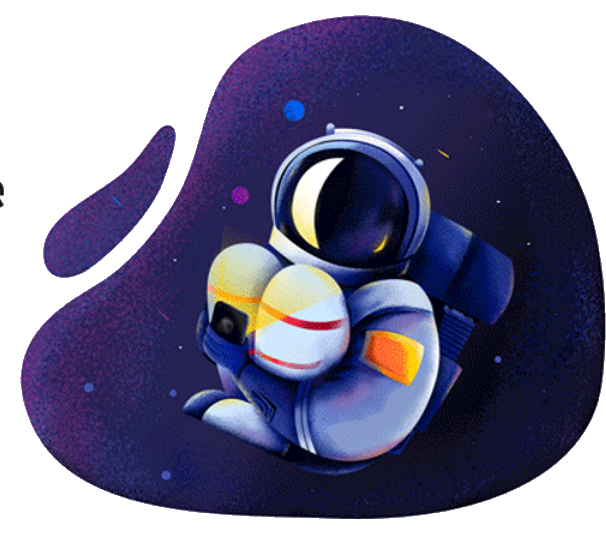
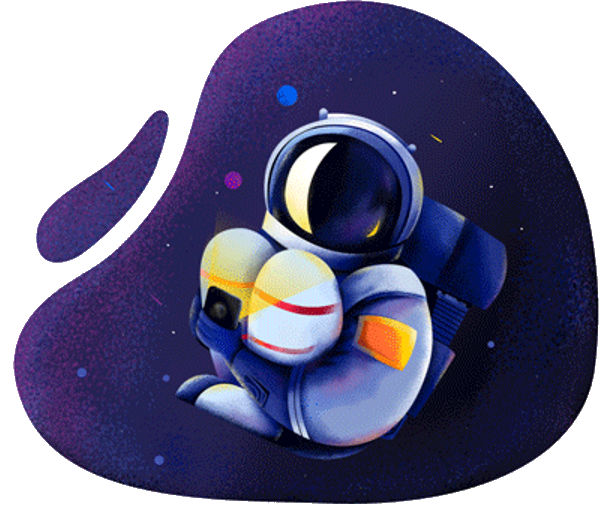
improvment

diff --git a/css/main.css b/css/main.css
@@ -5,7 +5,7 @@ body {font-family: system-ui, 'Gill Sans', 'Gill Sans MT', Calibri, 'Trebuchet M
    .container {
    display: inline-block;
    width: 1000px;
-   margin: 0 calc(50% - 500px);
+   margin: 0 calc(50% - 500px) 60px;
   }
   
   /* header */
@@ -39,6 +39,7 @@ body {font-family: system-ui, 'Gill Sans', 'Gill Sans MT', Calibri, 'Trebuchet M
 .left-column {
   width: 40%;
   float: left;
+  margin-top: 50px;
 }
 
 

diff --git a/index.html b/index.html
@@ -32,7 +32,7 @@
              <a href="#" class="btn btn-white">BACK</a>
         </div>
         <div class="right-column">
-<img class="right-column"src="./img/Astronautas.png" alt="astronautas-embrionas">
+<img class="right-column"src="./img/Astronautas.png" alt="Astronautas">
         </div>
     </main>
 
